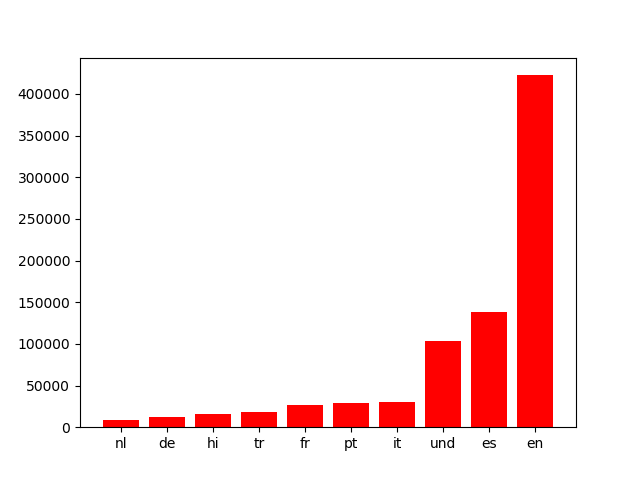
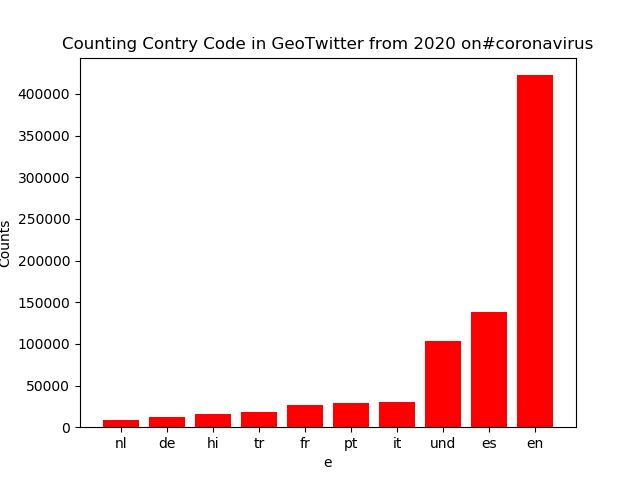
test

Changed region(s): [[0.0938, 0.0625, 0.9375, 0.125], [0.0, 0.4688, 0.0312, 0.5625], [0.5, 0.9375, 0.5312, 0.9688]]

diff --git a/src/visualize.py b/src/visualize.py
@@ -12,6 +12,7 @@ args = parser.parse_args()
 import os
 import json
 import matplotlib
+import re
 matplotlib.use('Agg')
 import matplotlib.pyplot as plt
 from collections import Counter,defaultdict
@@ -32,7 +33,6 @@ key_arr = []
 val_arr = []
 
 for k,v in items:
-    # print(k,':',v)
     key_arr.append(k)
     val_arr.append(v)
 
@@ -48,50 +48,23 @@ top_10_key = list(top_10_key)
 print(top_10_val)
 print(top_10_key)
 
+# bar plot
 temp = range(len(top_10_key))
 
 plt.bar(temp, top_10_val, color='red', tick_label=top_10_key)
 
-#plt.xticks(temp, top_10_key)
+print(args.input_path)
+print(args.key)
 
-plt.savefig('test2.png')
-"""
-import pandas as pd
 
-# create a sample DataFrame
-data = {'name': list(top_10_key),
-        'value': list(top_10_val)}
-df = pd.DataFrame(data)
+#Label based on file
+if re.search('.lang', args.input_path):
+    plt.title("Counting Language Code in GeoTwitter from 2020 on" + ' ' +  args.key)
+    plt.xlabel("Language Code")
+else:
+    plt.title("Counting Country Code in GeoTwitter from 2020 on" + ' ' +  args.key)
+    plt.xlabel("Country Code")
 
-# sort the DataFrame by 'value' in descending order
-df_sorted = df.sort_values('value', ascending=True)
+plt.ylabel("Counts")
 
-# plot the bar chart
-plt.bar(df_sorted['name'], df_sorted['value'])
-
-# add axis labels and title
-plt.xlabel('Name')
-plt.ylabel('Value')
-plt.title('Sorted Bar Chart')
-
-# show the plot
-plt.show()
-"""
-"""
-
-# plot bar graph
-plt.bar(positions, sorted(list(top_10_val)))
-# plt.barh
-
-# replace axis label
-plt.xticks(positions, list(top_10_key))
-
-plt.title('My Bar Graph')
-
-plt.xlabel('key')
-plt.ylabel('count')
-
-plt.tight_layout()
-plt.savefig('test.png')
-
-"""
+plt.savefig('test3.png')
